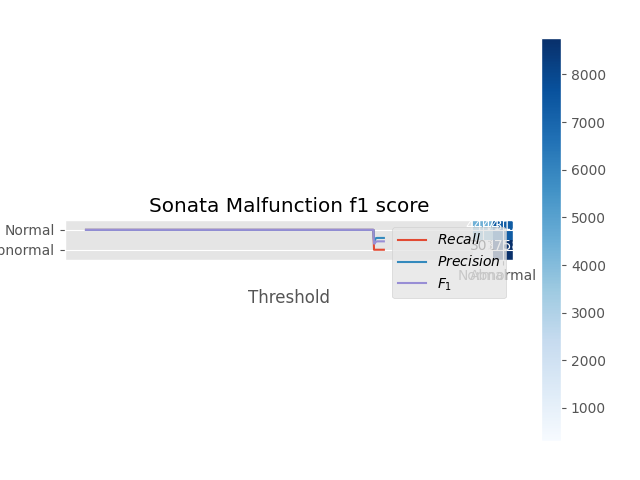
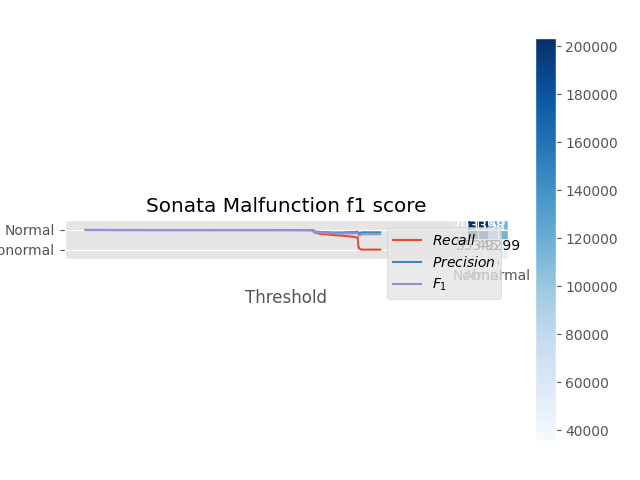
Add DecisionTree

diff --git a/MainTesting.py b/MainTesting.py
@@ -1,17 +1,15 @@
 import os
 import csv
-import sys
 from Utils import Message, CURRENT_FOLDER, plot_confusion_matrix
 
 import pandas as pd # for data analytics
 import numpy as np # for numerical computation
 from matplotlib import pyplot as plt, style # for ploting
-import seaborn as sns # for ploting
-from sklearn.model_selection import train_test_split
-from sklearn.metrics import fbeta_score, precision_score, recall_score, confusion_matrix # for evaluation
+from sklearn.metrics import accuracy_score, fbeta_score, precision_score, recall_score, confusion_matrix # for evaluation
 from scipy.stats import multivariate_normal
-import itertools
-import missingno as msno
+from sklearn import tree
+from sklearn.datasets import load_iris
+from sklearn.tree import DecisionTreeClassifier, plot_tree
 
 style.use('ggplot')
 np.random.seed(42) 
@@ -23,6 +21,7 @@ training_packet = {
     'data': [],
     'flag': []
 }
+
 # maintesting.py assume that we know the answer
 testing_packet = {
     'timestamp': [],
@@ -31,6 +30,7 @@ testing_packet = {
     'data': [],
     'flag': []
 }
+
 
 # read csv file by path, filename
 # code for save data will be add later
@@ -41,37 +41,35 @@ def read_file(path, filename, packet):
         before_timestamp = 0
 
         for row in reader:
-            if len(row)==0:
-                print(" [-] debugging... line "+str(cnt)+" in  "+filename+" is empty")
+
+            if len(row) == 0:
+                print(" [-] debugging... line " + str(cnt) + " in  " + filename + " is empty")
+
             elif row[-1] == 'R' or row[-1] == 'T':
                 if cnt == 0:
                     before_timestamp = float(row[0])
                 cnt += 1
                 datalen = int(row[2])
                 data = 0
-                # 2019 이용 데이터셋을 제외하고 message packet을 ,로 구분하지 않은 경우가 존재하여 예외처리함 - 동관
-                # 후에 예외처리가 더 필요할 수 있음
-                msg=[]
+
+                msg = []
                 if row[3].count(" "):
-                    msg=row[3].split(" ")
+                    msg = row[3].split(" ")
                 else:
                     msg=row[3:-1]
                 for idx in range(datalen):
                     data *= 0x100
                     data += int(msg[idx], 16)
 
-                # timestamp = float(row[0])
-                timestamp = int(float(row[0]) - before_timestamp) * 1000000
-                # 나중에 log 이용 시 차이가 너무 작지 않도록 조정
+                timestamp = (float(row[0]) - before_timestamp) * 1000000
                 canid = int(row[1], 16)
+
                 if row[-1] == 'R':
                     flag = 0
                 elif row[-1] == 'T':
                     flag = 1
                 else:
                     print(row[-1])
-
-                # timestamp, CANID, datalen, data, flag must be saved
 
                 packet['timestamp'].append(timestamp)
                 packet['canid'].append(canid)
@@ -84,8 +82,6 @@ def read_file(path, filename, packet):
             else:
                 exit("csv read error")
 
-        # print(cnt)
-        # return packet
 
 def read_csv_train(car_type, attack_type):
     """ params: car_type, attack_type """
@@ -96,14 +92,16 @@ def read_csv_train(car_type, attack_type):
             read_file(path, file, training_packet)
             break
 
+
 def read_csv_test(car_type, attack_type):
-    """ params: car_type, attack_type """    
+    """ params: car_type, attack_type """
     path = os.path.join(CURRENT_FOLDER, "test_input", car_type)
     file_list = os.listdir(path)
     for file in file_list:
         if attack_type in file:
             read_file(path, file, testing_packet)
             break
+
 
 def clear_dict(my_dict):
     """ 
@@ -113,8 +111,77 @@ def clear_dict(my_dict):
     for key in my_dict.keys():
         my_dict[key].clear()
 
+
+def statistical_tec(train, valid, test, car, attack):
+    mu = train.drop('flag', axis=1).mean(axis=0).values
+    sigma = train.drop('flag', axis=1).cov().values
+    model = multivariate_normal(cov=sigma, mean=mu, allow_singular=True)
+
+    tresholds = np.linspace(-20, -5, 1000)
+    scores = []
+    for treshold in tresholds:
+        y_hat = (model.logpdf(valid.drop('flag', axis=1).values) < treshold).astype(int)
+        scores.append([recall_score(y_pred=y_hat, y_true=valid['flag'].values),
+                       precision_score(y_pred=y_hat, y_true=valid['flag'].values),
+                       fbeta_score(y_pred=y_hat, y_true=valid['flag'].values, beta=1)])
+    scores = np.array(scores)
+
+    plt.plot(tresholds, scores[:, 0], label='$Recall$')
+    plt.plot(tresholds, scores[:, 1], label='$Precision$')
+    plt.plot(tresholds, scores[:, 2], label='$F_1$')
+    plt.ylabel('Score')
+    plt.xlabel('Threshold')
+    plt.legend(loc='best')
+    # plt.show()
+
+    plt.title(car + " " + attack + " f1 score")
+    plt.savefig(os.path.join(CURRENT_FOLDER, "output", car, attack + "_f1_score.png"))
+
+    final_tresh = tresholds[scores[:, 2].argmax()]
+    y_hat_test = (model.logpdf(test.drop('flag', axis=1).values) < final_tresh).astype(int)
+
+    print('Final threshold: %.3f' % final_tresh)
+    print('Test Recall Score: %.3f' % recall_score(y_pred=y_hat_test, y_true=test['flag'].values))
+    print('Test Precision Score: %.3f' % precision_score(y_pred=y_hat_test, y_true=test['flag'].values))
+    print('Test F1 Score: %.3f' % fbeta_score(y_pred=y_hat_test, y_true=test['flag'].values, beta=1))
+
+    cnf_matrix = confusion_matrix(test['flag'].values, y_hat_test)
+    plot_confusion_matrix(cnf_matrix, classes=['Normal', 'Abnormal'], title='Confusion matrix', car=car, attack=attack)
+
+
+def decisiontree_tec(train, valid, test, car, attack):
+    train_X = valid.drop(['flag'], axis=1)
+    train_Y = valid['flag']
+    test_X = test.drop(['flag'], axis=1)
+    test_Y = test['flag']
+
+    print(train_Y.mean())
+    print(test_Y.mean())
+
+    clf = tree.DecisionTreeClassifier(random_state=0)
+    clf.fit(train_X, train_Y)
+
+    preds = clf.predict(test_X)
+
+    print('Accuracy: {:.4f}%'.format(accuracy_score(test_Y, preds) * 100))
+    print('Recall: {:.4f}%'.format(recall_score(test_Y, preds) * 100))
+    print('Precision: {:.4f}%'.format(precision_score(test_Y, preds) * 100))
+    print('F1 score: {:.4f}%'.format(fbeta_score(test_Y, preds, beta=1) * 100))
+
+    fig, ax = plt.subplots(figsize=(20, 20))
+    plot_tree(clf, ax=ax, filled=True)
+    plt.show()
+
+    cnf_matrix = confusion_matrix(test_Y, preds)
+    plot_confusion_matrix(cnf_matrix, classes=['Normal', 'Abnormal'], title='Confusion matrix', car=car, attack=attack)
+
+    tn, fp, fn, tp = confusion_matrix(test_Y, preds).ravel()
+    print(tn, fp, fn, tp)
+
+
 def train2test(car, attack):
     """" training from a file, then testing """
+
     training_dataset = pd.DataFrame(training_packet)
     training_dataset['timestamp'] = np.log(training_dataset['timestamp'] + 1)
     training_dataset['canid'] = np.log(training_dataset['canid'] + 1)
@@ -131,62 +198,24 @@ def train2test(car, attack):
     testing_normal = testing_dataset[testing_dataset['flag'] == 0]
     testing_abnormal = testing_dataset[testing_dataset['flag'] == 1]
 
-    """train, _, _, _ = train_test_split(training_normal, training_normal, test_size=.2, random_state=42)
-    normal_valid, _, _, _ = train_test_split(training_normal, training_normal, test_size=.5, random_state=42)
-    abnormal_valid, _, _, _ = train_test_split(training_abnormal, training_abnormal, test_size=.5, random_state=42)"""
-
     train = training_normal
     valid = training_normal.append(training_abnormal)
     test = testing_normal.append(testing_abnormal)
 
-    mu = train.drop('flag', axis=1).mean(axis=0).values
-    sigma = train.drop('flag', axis=1).cov().values
-    model = multivariate_normal(cov=sigma, mean=mu, allow_singular=True)
+    # statistical_tec(train, valid, test, car, attack)
+    decisiontree_tec(train, valid, test, car, attack)
 
-    tresholds = np.linspace(-20, -5, 1000)
-    scores = []
-    for treshold in tresholds:
-        y_hat = (model.logpdf(valid.drop('flag', axis=1).values) < treshold).astype(int)
-        scores.append([recall_score(y_pred=y_hat, y_true=valid['flag'].values),
-                       precision_score(y_pred=y_hat, y_true=valid['flag'].values),
-                       fbeta_score(y_pred=y_hat, y_true=valid['flag'].values, beta=1)])
-
-    scores = np.array(scores)
-    #print(scores[:, 2].max(), scores[:, 2].argmax(), tresholds[scores[:, 2].argmax()])
-
-    plt.plot(tresholds, scores[:, 0], label='$Recall$')
-    plt.plot(tresholds, scores[:, 1], label='$Precision$')
-    plt.plot(tresholds, scores[:, 2], label='$F_1$')
-    plt.ylabel('Score')
-    plt.xlabel('Threshold')
-    plt.legend(loc='best')
-    #plt.show()
-    plt.title(car+" "+attack+" f1 score")
-    plt.savefig(os.path.join(CURRENT_FOLDER,"output",car,attack+"_f1_score.png"))
-
-    final_tresh = tresholds[scores[:, 2].argmax()]
-    y_hat_test = (model.logpdf(test.drop('flag', axis=1).values) < final_tresh).astype(int)
-
-    print('Final threshold: %.3f' % final_tresh)
-    print('Test Recall Score: %.3f' % recall_score(y_pred=y_hat_test, y_true=test['flag'].values))
-    print('Test Precision Score: %.3f' % precision_score(y_pred=y_hat_test, y_true=test['flag'].values))
-    print('Test F1 Score: %.3f' % fbeta_score(y_pred=y_hat_test, y_true=test['flag'].values, beta=1))
-
-    cnf_matrix = confusion_matrix(test['flag'].values, y_hat_test)
-    plot_confusion_matrix(cnf_matrix, classes=['Normal', 'Abnormal'], title='Confusion matrix',car=car,attack=attack)
 
 if __name__=='__main__':
-    # Flooding 도 하면 좋겠지만 파일이 하나라서...TT
-    car_type = ["Sonata","Soul"]
-    attack_type = ["Fuzzy","Malfunction"]
-    # 실제 구현으로는 아래 반복문 안에서 실행시키면 될 것
+    car_type = ["Sonata", "Soul"]
+    attack_type = ["Fuzzy", "Malfunction"]
 
     for car in car_type:
         for attack in attack_type:
-            # 초기화 코드 추가 - 동관
             clear_dict(training_packet)
-            clear_dict(testing_packet)            
-            print("[+] Start testing "+car+" "+attack)
+            clear_dict(testing_packet)
+
+            print("[+] Start testing " + car + " " + attack)
             read_csv_test(car, attack)            
             read_csv_train(car, attack)
             train2test(car, attack)

diff --git a/Utils.py b/Utils.py
@@ -1,22 +1,19 @@
-import os
-import csv
-import sys
-import pandas as pd # for data analytics
-import numpy as np # for numerical computation
-from matplotlib import pyplot as plt, style # for ploting
-import seaborn as sns # for ploting
+import os, csv
+import pandas as pd
+import numpy as np
+from matplotlib import pyplot as plt, style
 from sklearn.model_selection import train_test_split
-from sklearn.metrics import fbeta_score, precision_score, recall_score, confusion_matrix # for evaluation
+from sklearn.metrics import fbeta_score, precision_score, recall_score, confusion_matrix
 from scipy.stats import multivariate_normal
 import itertools
-import missingno as msno
 
 style.use('ggplot')
 np.random.seed(42) 
 
 CURRENT_FOLDER=os.path.dirname(os.path.abspath(__file__))
 
-def plot_confusion_matrix(cm, classes, normalize=False, title='Confusion matrix', cmap=plt.cm.Blues,car="",attack=""):
+
+def plot_confusion_matrix(cm, classes, title='Confusion matrix', cmap=plt.cm.Blues, car="", attack=""):
     """
     This function prints and plots the confusion matrix.
     Normalization can be applied by setting `normalize=True`.
@@ -39,9 +36,10 @@ def plot_confusion_matrix(cm, classes, normalize=False, title='Confusion matrix'
     plt.tight_layout()
     plt.ylabel('True label')
     plt.xlabel('Predicted label')
-    #plt.show()
-    plt.title(car+" "+attack+" confusion matrix")
-    plt.savefig(os.path.join(CURRENT_FOLDER,"output",car,attack+"_confusion_matrix.png"))
+    # plt.show()
+    plt.title(car + " " + attack + " confusion matrix")
+    plt.savefig(os.path.join(CURRENT_FOLDER, "output", car,attack + "_confusion_matrix.png"))
+
 
 class Message:
     def __init__(self, folder, car_type, attack_type):
